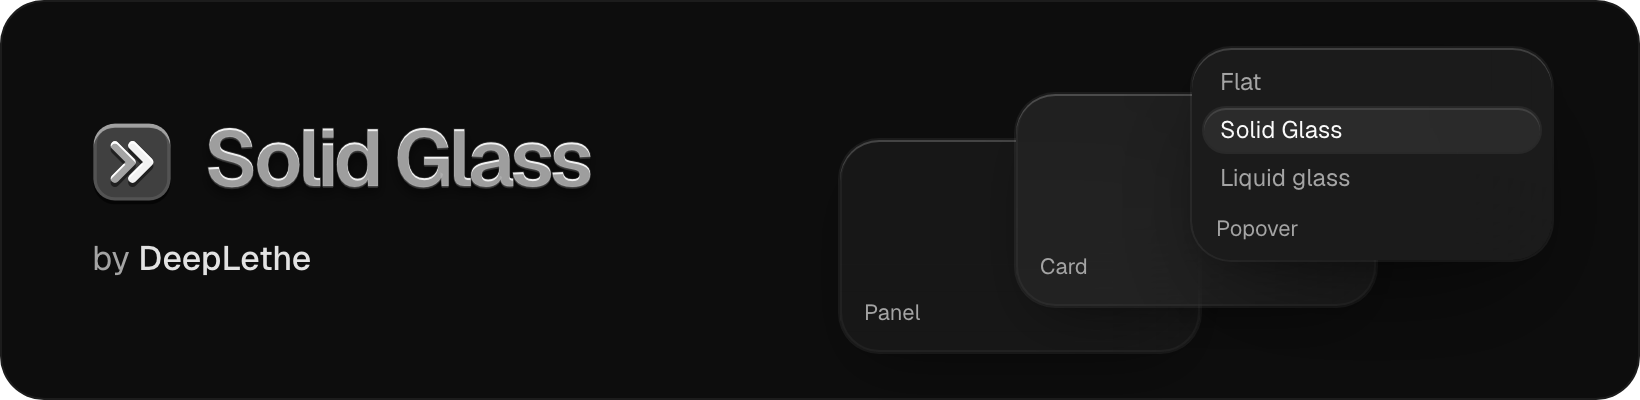
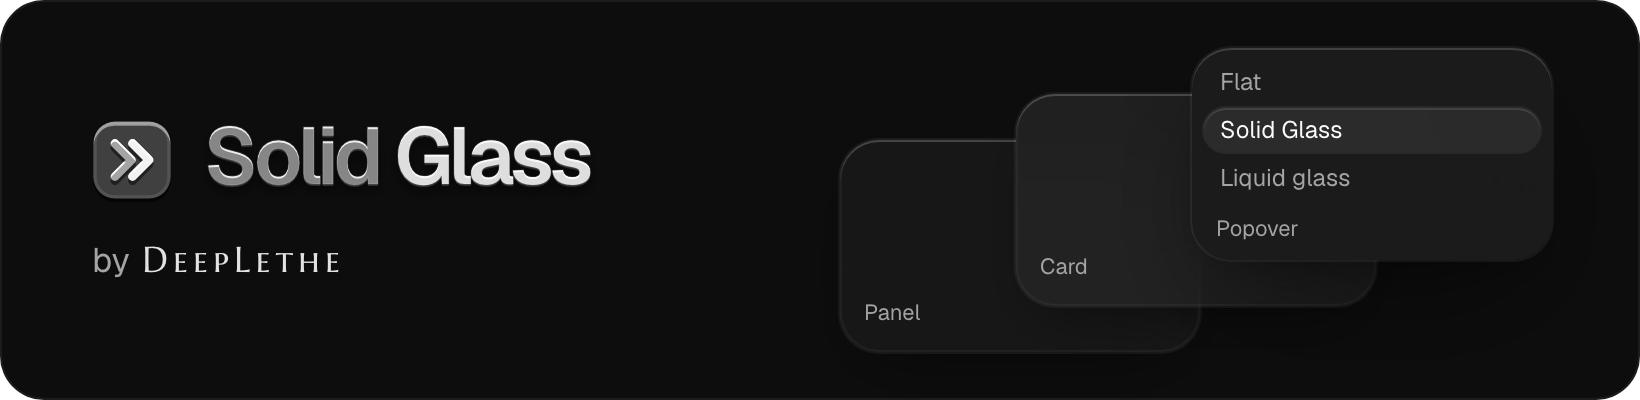
Set DeepLethe's name in its own face
Marcellus SC, the wordmark of deeplethe.com, wherever the site signs
with the name: the banner and the footer. In the banner the second word
of the name is brighter than the first, clear glass beside smoked.

Changed region(s): [[0.0622, 0.3, 0.3732, 0.48], [0.0622, 0.6, 0.2177, 0.69], [0.0622, 0.36, 0.0933, 0.51]]

diff --git a/src/pages/dev-banner.tsx b/src/pages/dev-banner.tsx
@@ -3,19 +3,22 @@ import * as React from "react"
 import { SolidGlassMark } from "@/site/logo"
 
 /**
- * The name, set in the material: each letter a pane of glass. A grey face, the line of light along
- * the top of every stroke, a hairline round it, a thin dark edge underneath and its shadow on the
- * page. No gradient; like a pane, a letter is finished at its edges.
+ * The name, set in the material: each letter a pane of glass. A face (darker for the first word,
+ * brighter for the second), the line of light along the top of every stroke, a hairline round it,
+ * a thin dark edge underneath and its shadow on the page. No gradient; like a pane, a letter is
+ * finished at its edges.
  */
-function GlassWordmark({ children }: { children: string }) {
+function GlassWordmark({ first, second }: { first: string; second: string }) {
   const id = React.useId()
-  const letters = (props: React.SVGProps<SVGTextElement>) => (
+  // Every layer is the same line of type. Only the face is told the two words apart.
+  const letters = (props: React.SVGProps<SVGTextElement>, face?: [string, string]) => (
     <text x="0" y="36" fontSize="40" fontWeight="600" letterSpacing="-2" {...props}>
-      {children}
+      <tspan fill={face?.[0]}>{first}</tspan>
+      <tspan fill={face?.[1]}> {second}</tspan>
     </text>
   )
   return (
-    <svg width="222" height="48" viewBox="0 0 222 48" role="img" aria-label={children} className="overflow-visible font-sans">
+    <svg width="222" height="48" viewBox="0 0 222 48" role="img" aria-label={`${first} ${second}`} className="overflow-visible font-sans">
       <defs>
         {/* What is left of the letters once the same letters, moved down a little, are taken out: their top edges. */}
         <mask id={`${id}rim`} maskUnits="userSpaceOnUse" x="-8" y="-8" width="240" height="64">
@@ -27,7 +30,8 @@ function GlassWordmark({ children }: { children: string }) {
         {letters({ fill: "#000", fillOpacity: 0.55 })}
       </g>
       <g transform="translate(0 1.1)">{letters({ fill: "oklch(0.3 0 0)" })}</g>
-      {letters({ fill: "oklch(0.7 0 0)" })}
+      {/* smoked glass for the first word, clear glass for the second: the name says which is which */}
+      {letters({}, ["oklch(0.62 0 0)", "oklch(0.9 0 0)"])}
       {letters({ fill: "none", stroke: "#fff", strokeOpacity: 0.16, strokeWidth: 0.7 })}
       <g mask={`url(#${id}rim)`}>{letters({ fill: "#fff", fillOpacity: 0.85 })}</g>
     </svg>
@@ -57,10 +61,10 @@ export function DevBanner() {
       <div className="flex flex-col gap-3">
         <div className="flex items-center gap-3.5">
           <SolidGlassMark className="size-11" />
-          <GlassWordmark>Solid Glass</GlassWordmark>
+          <GlassWordmark first="Solid" second="Glass" />
         </div>
         <p className="pl-0.5 text-[17px] text-muted-foreground">
-          by <span className="font-medium text-foreground/90">DeepLethe</span>
+          by <span className="ml-0.5 font-logo text-[18px] tracking-[0.14em] text-foreground/90">DeepLethe</span>
         </p>
       </div>
 

diff --git a/src/index.css b/src/index.css
@@ -3,6 +3,7 @@
 @import "shadcn/tailwind.css";
 @import "@fontsource-variable/geist";
 @import "@fontsource-variable/geist-mono";
+@import "@fontsource/marcellus-sc/latin-400.css";
 @import "./solid-glass.css";
 
 /* ---- The site -------------------------------------------------------------
@@ -38,6 +39,13 @@
 
 @utility container {
   @apply mx-auto max-w-[1400px] px-4 lg:px-8;
+}
+
+/* DeepLethe's own face, for its name wherever the site signs with it: Roman capitals as cut in
+   stone, the wordmark of deeplethe.com. */
+@utility font-logo {
+  font-family: "Marcellus SC", "Trajan Pro", Georgia, serif;
+  font-weight: 400;
 }
 
 @utility extend-touch-target {

diff --git a/src/site/site-footer.tsx b/src/site/site-footer.tsx
@@ -5,7 +5,7 @@ export function SiteFooter() {
         <div className="flex h-(--footer-height) items-center justify-between">
           <div className="w-full px-1 text-center text-xs leading-loose text-muted-foreground sm:text-sm">
             By{" "}
-            <a href="https://deeplethe.com" target="_blank" rel="noreferrer" className="font-medium underline underline-offset-4">
+            <a href="https://deeplethe.com" target="_blank" rel="noreferrer" className="font-logo tracking-[0.12em] text-foreground underline-offset-4 hover:underline">
               DeepLethe
             </a>
             . Built on{" "}
